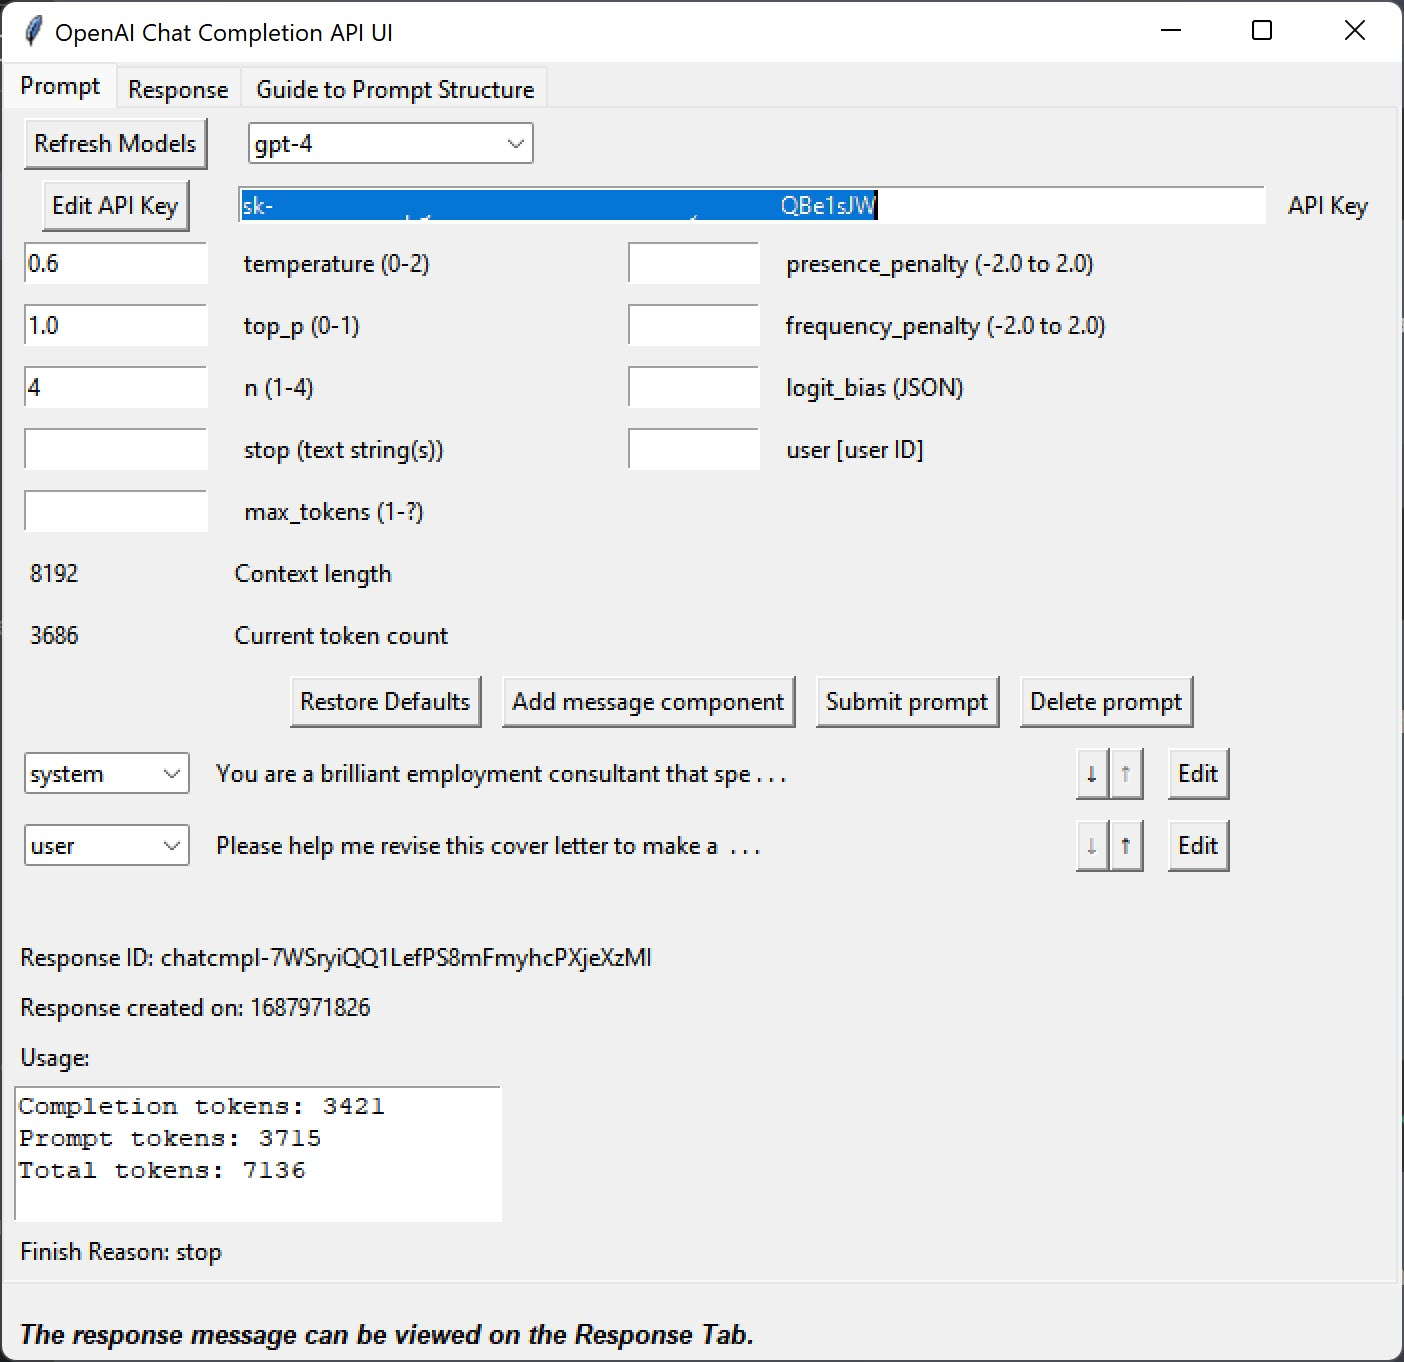
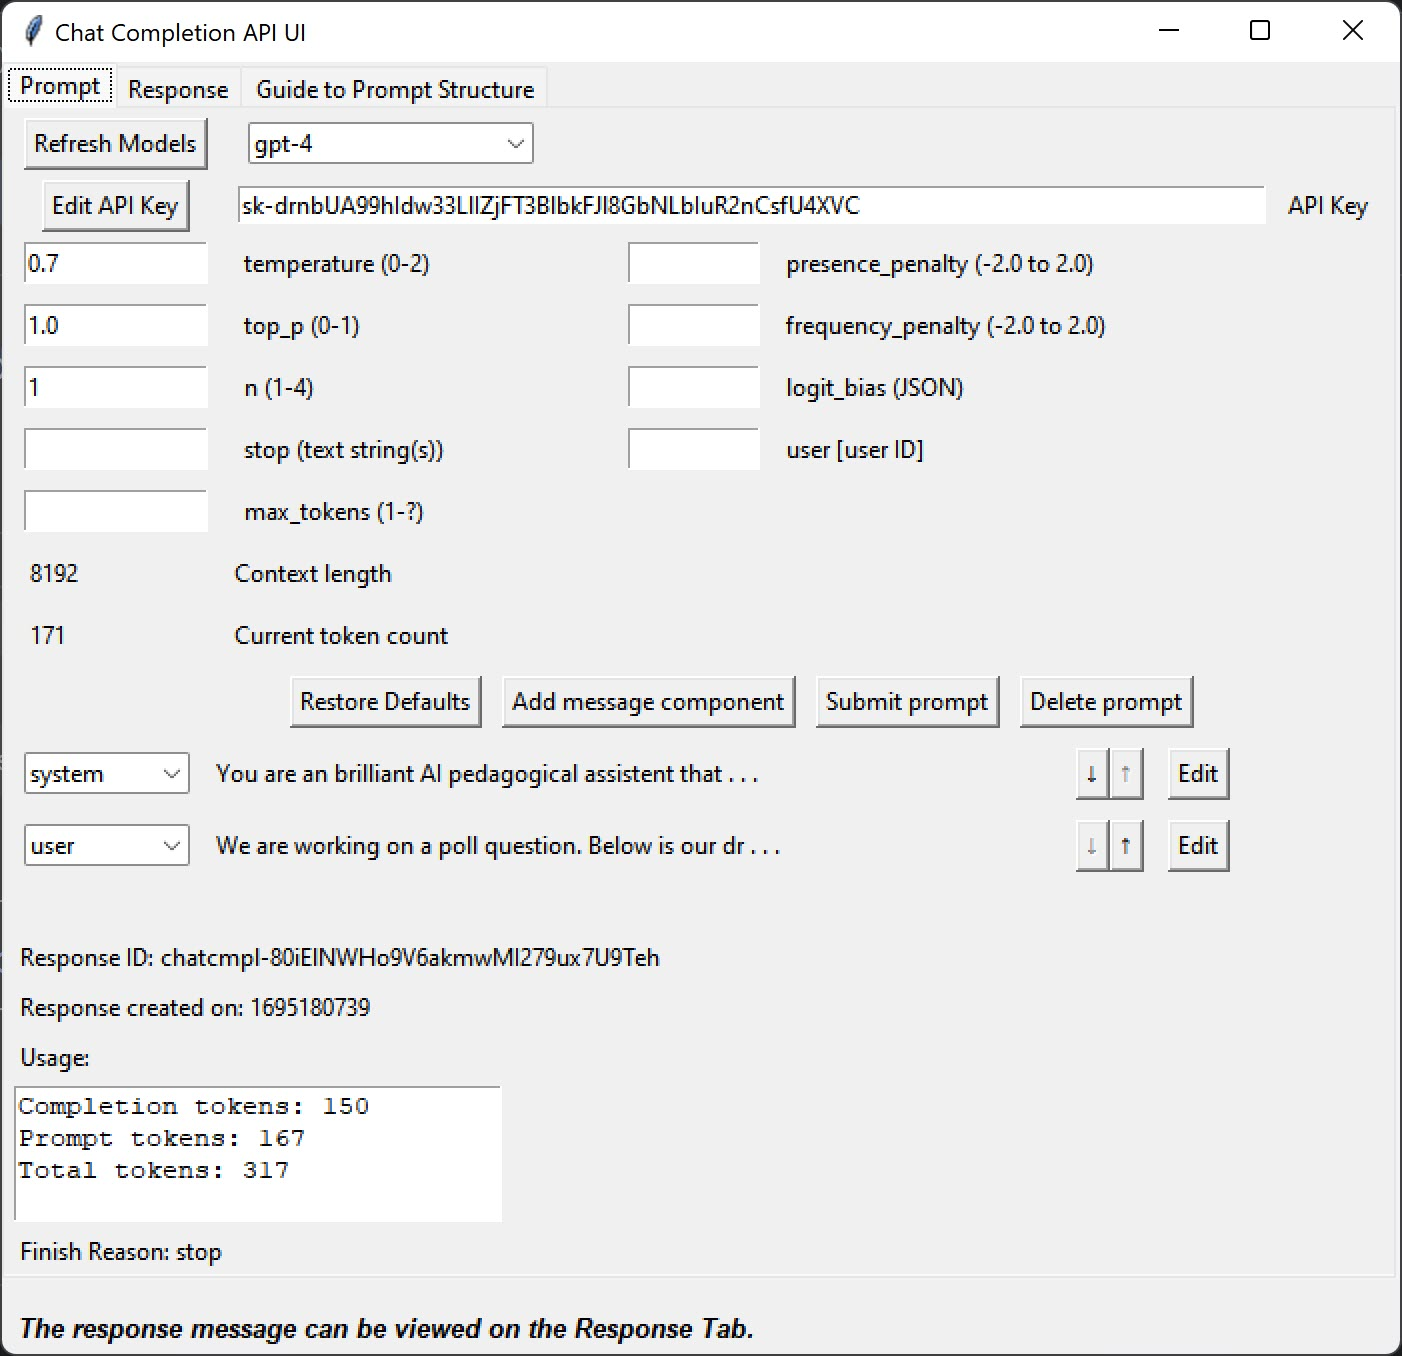
Updated Names

diff --git a/chat_gui.py b/chat_gui.py
@@ -319,7 +319,7 @@ class PromptUI:
         self.api_key = api_key
         self.context_windows = context_windows
         self.context_length = tk.IntVar()
-        self.root.title("OpenAI Chat Completion API UI")
+        self.root.title("Chat Completion API UI")
         self.root.geometry("700x800")
 
         self.prompt_notebook = ttk.Notebook(self.root)

diff --git a/prompt_tester.py b/prompt_tester.py
@@ -296,7 +296,7 @@ class PromptUI:
         self.api_key = api_key
         self.context_windows = context_windows
         self.context_length = tk.IntVar()
-        self.root.title("OpenAI Chat Completion API UI")
+        self.root.title("Chat Completion API UI")
         self.root.geometry("700x800")
 
         self.prompt_notebook = ttk.Notebook(self.root)
